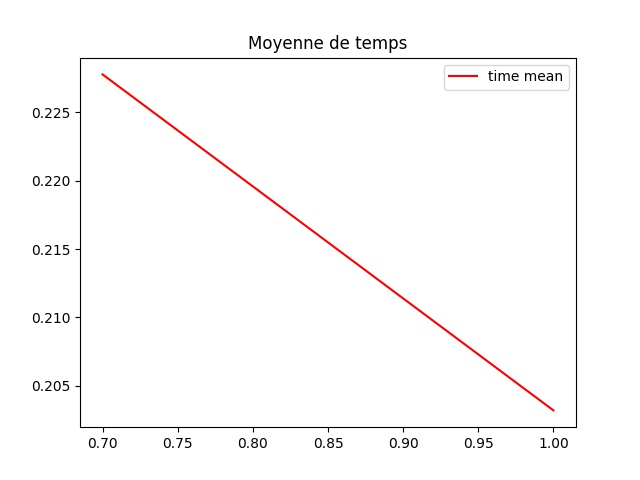
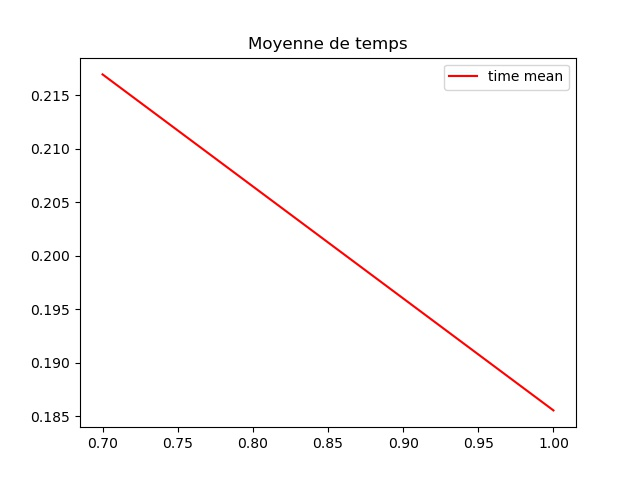
fix bug

diff --git a/changeif/main.py b/changeif/main.py
@@ -551,6 +551,7 @@ def calcul_proba_suivi_policy():
 							res[i][j][5] += p * p0
 							res[i][j][2] += p * p1
 							res[i][j][8] += p * p1
+	print("RRRRes", res[:][:][4])
 	return res
 
 
@@ -624,6 +625,8 @@ def init_game(_nblignes , _nbcolonness, _proba, _weight, _zoom=2, _PosX=20, _Pos
 			policy,valeur=optimale(nblignes, nbcolonnes,4 , g1,proba, gamma)
 		elif (_optimizer==5):
 			policy, valeur = multioptimale(nblignes, nbcolonnes, 4, g, proba,gamma,objectif=value_objectif,color=4)
+		elif (_optimizer==6):
+			policy, valeur = multioptimale(nblignes, nbcolonnes, 4, g, proba,gamma,objectif=value_objectif,color=4)
 		# Craation d'un widget Button (bouton Quitter)
 		# Creation d'un widget Button (bouton Quitter)
 		Button(Mafenetre, text ='Restart', command = initialize).pack(side=LEFT,padx=5,pady=5)
@@ -686,9 +689,15 @@ def init_game(_nblignes , _nbcolonness, _proba, _weight, _zoom=2, _PosX=20, _Pos
 
 		elif (_optimizer==5):
 			policy, valeur = multioptimale(nblignes, nbcolonnes, 4, g, proba,gamma,objectif=value_objectif,color=4)
+			t1 = time.time()
+			times_list.append(t1-t0)
+			valeurs_list = valeur
+
+		elif (_optimizer==6):
+			policy, valeur = multioptimale(nblignes, nbcolonnes, 4, g, proba,gamma,objectif=value_objectif,color=4)
+			t1 = time.time()
 			tab = calcul_proba_suivi_policy()
 			valeur = calculesperance(tab,g,nblignes, nbcolonnes,color=4)
-			t1 = time.time()
 			times_list.append(t1-t0)
 			valeurs_list = valeur
 
@@ -818,7 +827,7 @@ def comparer_make_image_4c():
 
 	#on prend une instance et executer 15 fois
 	valeurs_list=[]
-	init_game(nbl, nbc, _proba=0.7, _weight=_weight, _gamma=1, _display=False, _optimizer=5)
+	init_game(nbl, nbc, _proba=0.7, _weight=_weight, _gamma=1, _display=False, _optimizer=6)
 	scores_list1=[]
 	scores_list2=[]
 	scores_list3=[]
